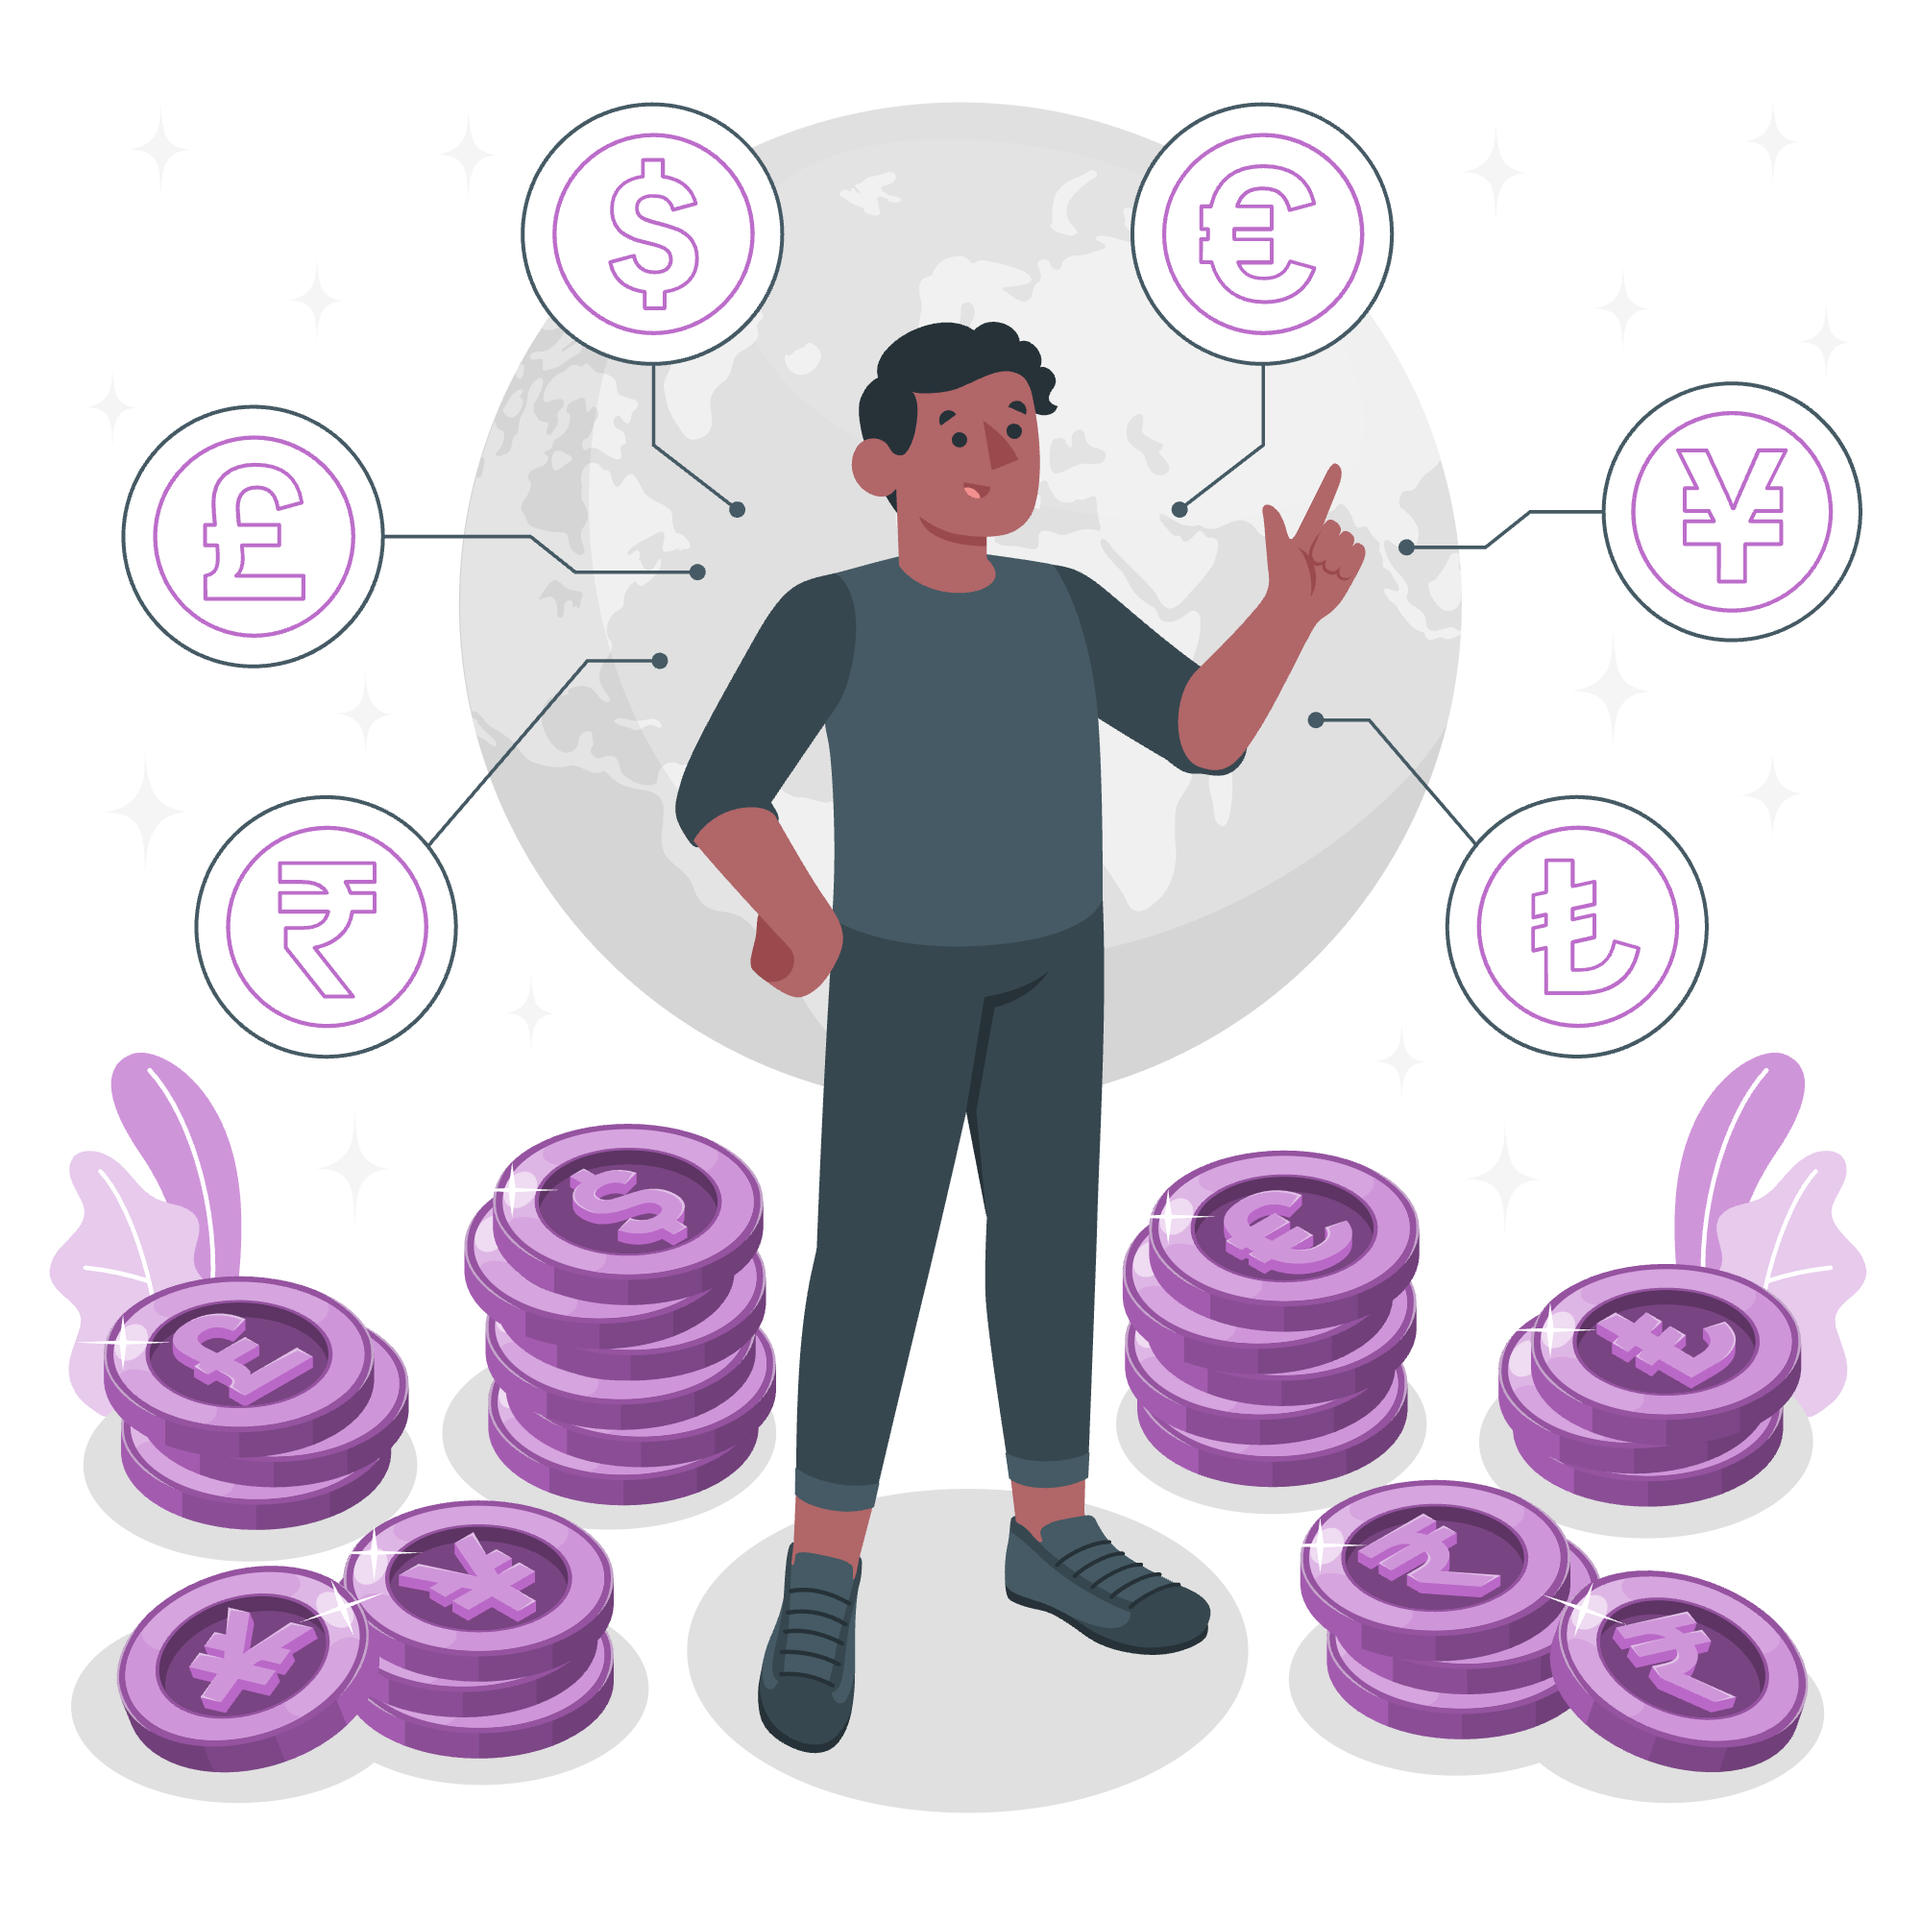
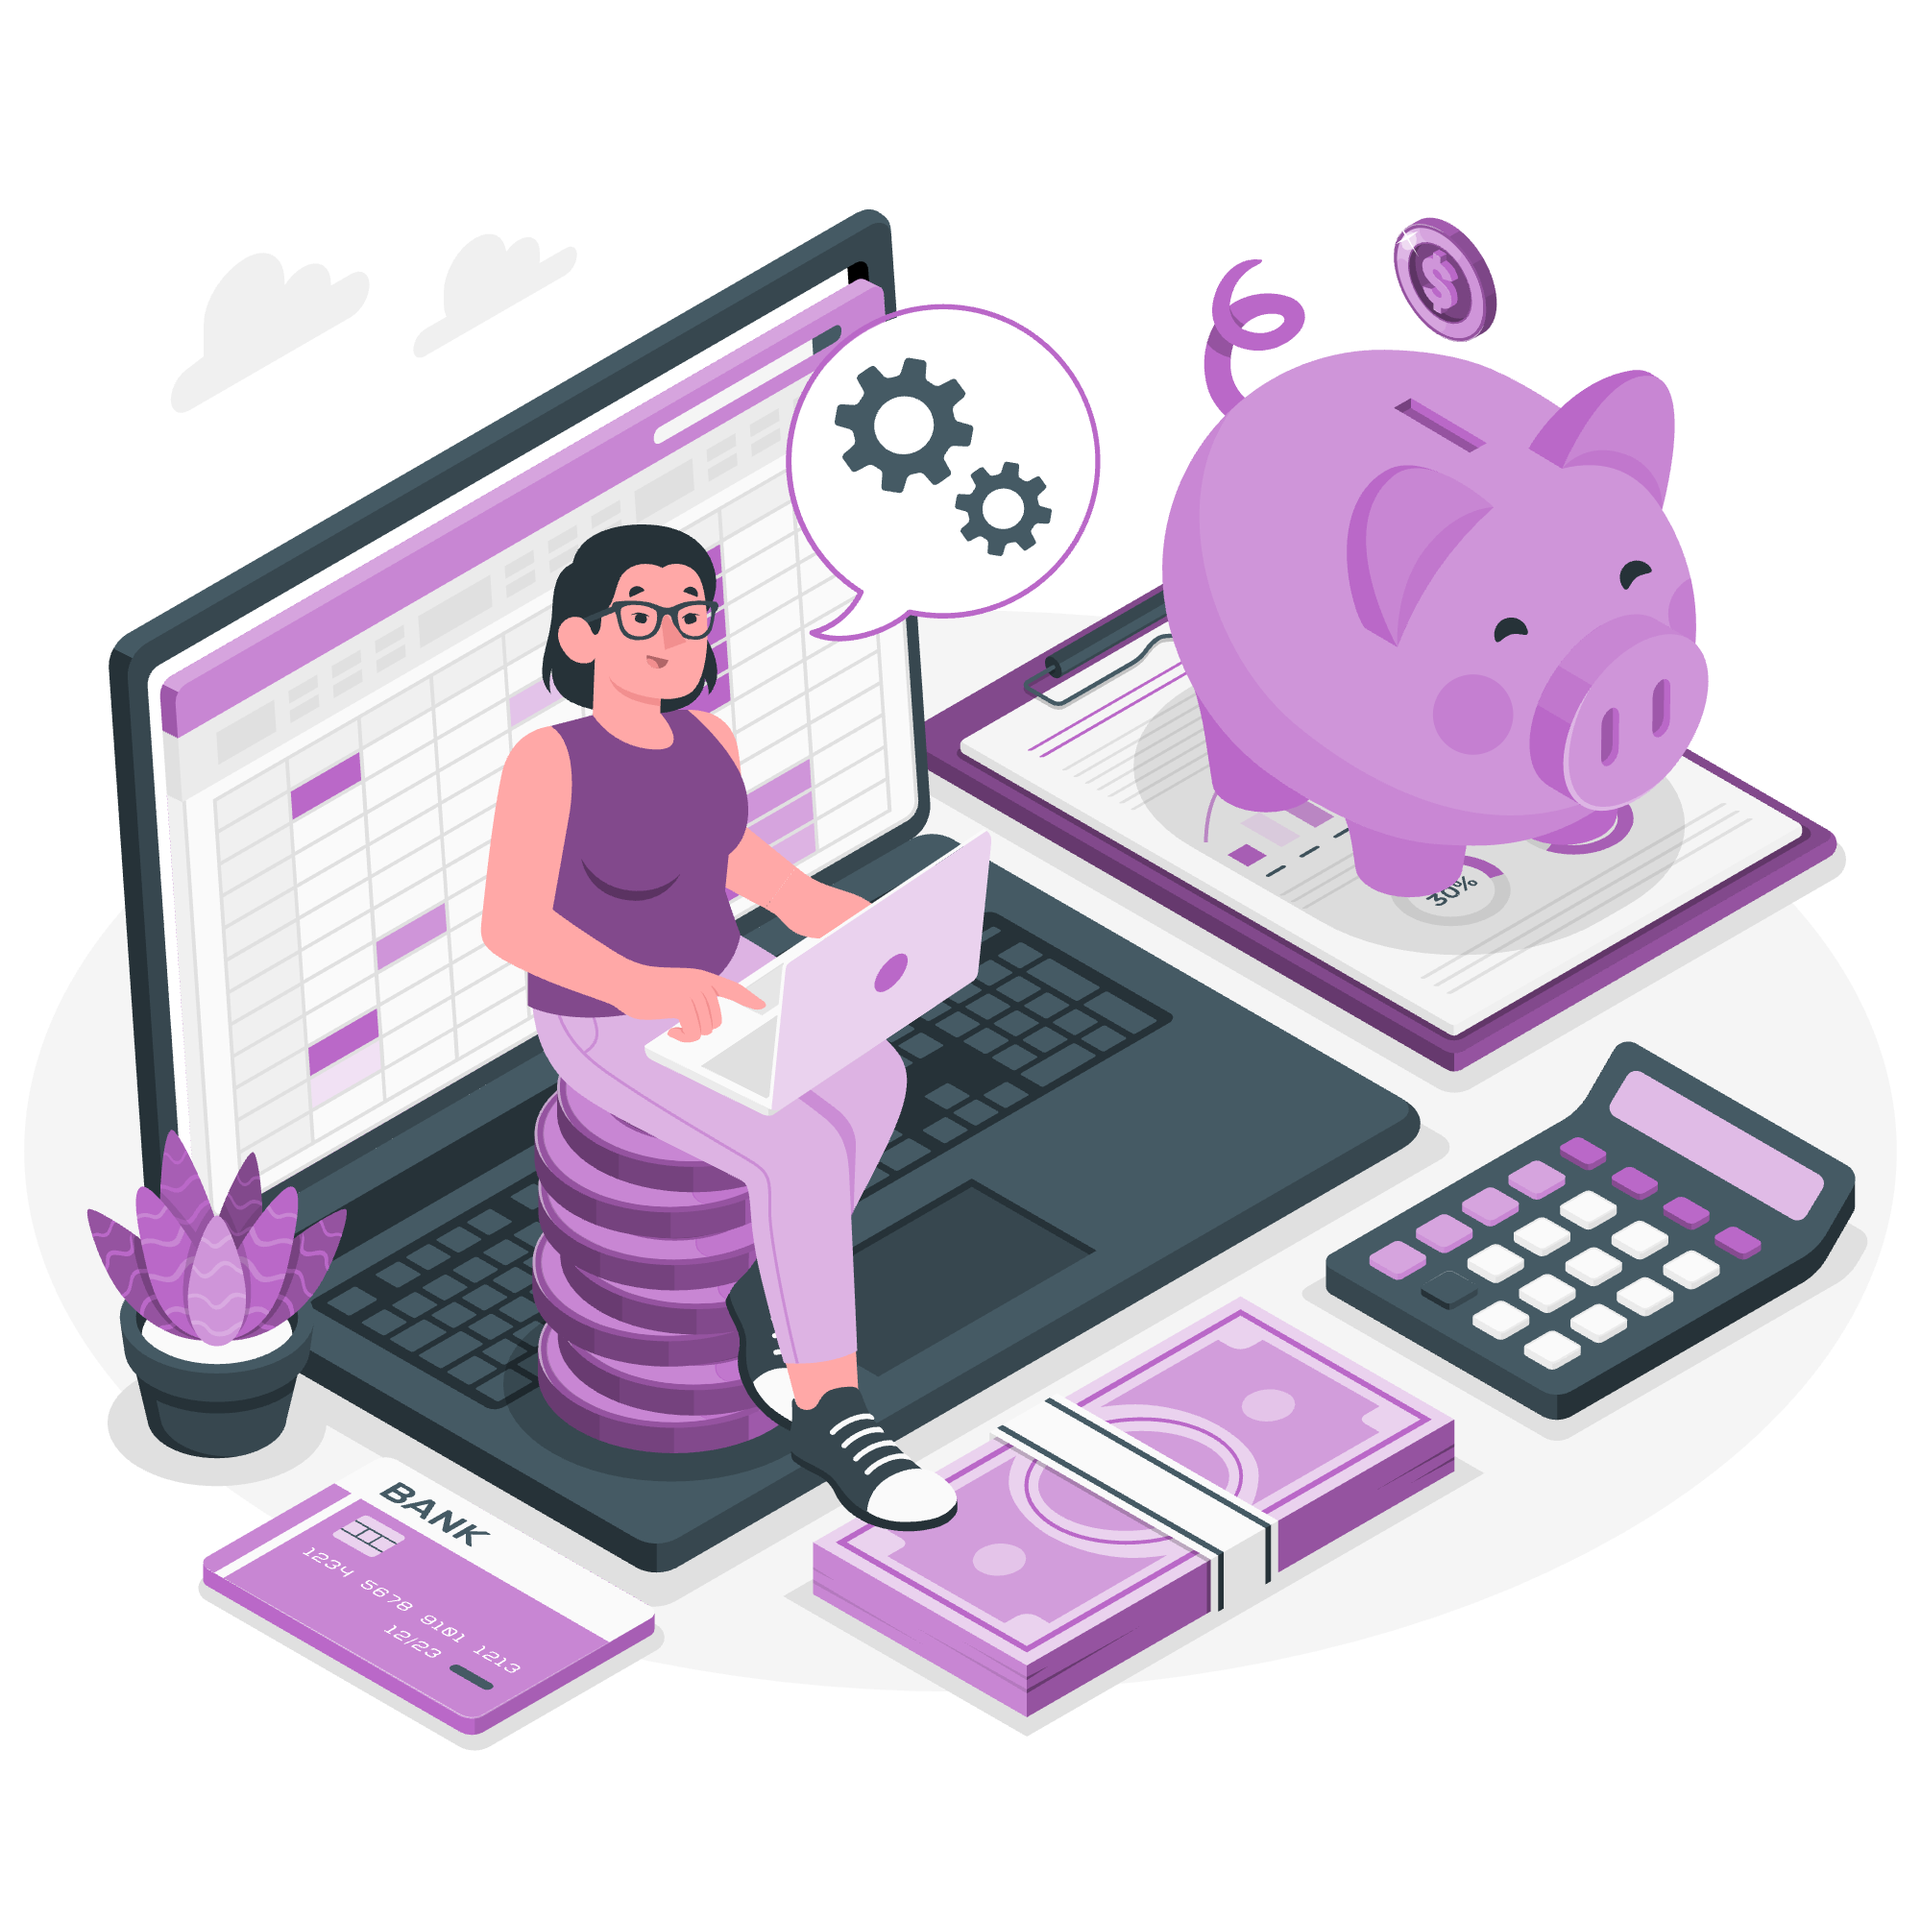
salary calculator added

diff --git a/assignments/salaryCalculator/index.html b/assignments/salaryCalculator/index.html
@@ -3,7 +3,7 @@
   <head>
     <meta charset="UTF-8" />
     <meta name="viewport" content="width=device-width, initial-scale=1.0" />
-    <title>Electricity Bill</title>
+    <title>Salary Calculator</title>
     <link
       href="https://cdn.jsdelivr.net/npm/bootstrap@5.3.8/dist/css/bootstrap.min.css"
       rel="stylesheet"
@@ -18,7 +18,7 @@
   </head>
   <body>
     <header class="w-full p-3 text-center bg-primary text-white">
-      <h1 class="fw-bolder">Electricity Bill Calculator</h1>
+      <h1 class="fw-bolder">Salary Calculator</h1>
     </header>
 
     <main>
@@ -27,16 +27,17 @@
       >
         <div class="w-50 inputContainer">
           <div class="d-flex flex-column align-items-start gap-1 w-75 mx-auto">
-            <label for="unit" class="fw-bold fs-5">Electricity units:</label>
+            <label for="input" class="fw-bold fs-5">Basic Salary:</label>
             <div class="inputDiv w-100">
               <input
                 type="number"
                 min="0"
-                id="unit"
-                name="unit"
+                id="input"
+                name="input"
                 class="form-control"
               />
             </div>
+            <span id="error" class="text-danger ms-auto float-end"></span>
           </div>
 
           <div class="d-flex justify-content-around mx-auto mt-5">
@@ -65,7 +66,7 @@
         </div>
 
         <div
-          class="bg-white rounded-3 p-2 text-black shadow w-25 mx-auto my-5 p-4 res resDiv"
+          class="bg-white rounded-3 p-2 text-black shadow w-25 justify-content-center align-items-center mx-auto my-5 p-4 resDiv"
         >
           <div
             class="d-flex justify-content-center align-items-center d-none"
@@ -73,47 +74,29 @@
           >
             <i class="bi bi-arrow-clockwise fs-1 animate-rotate"></i>
           </div>
-          <div class="d-block" id="result">
+          <div class="d-block h-100 d-flex flex-column justify-content-center" id="result">
             <h3 class="text-center">Total</h3>
             <div class="d-flex justify-content-between">
-              <p>First 50 unit:</p>
+              <p>Basic Salary:</p>
               <p>
                 <i class="bi bi-currency-rupee"></i><span id="first">0</span>
               </p>
             </div>
             <div class="d-flex justify-content-between">
-              <p>51-200 unit:</p>
+              <p>HRA:</p>
               <p>
                 <i class="bi bi-currency-rupee"></i><span id="second">0</span>
               </p>
             </div>
             <div class="d-flex justify-content-between">
-              <p>201-450 unit:</p>
+              <p>DA:</p>
               <p>
                 <i class="bi bi-currency-rupee"></i><span id="third">0</span>
               </p>
             </div>
-            <div class="d-flex justify-content-between">
-              <p>Above 450 unit:</p>
-              <p>
-                <i class="bi bi-currency-rupee"></i><span id="fourth">0</span>
-              </p>
-            </div>
-            <div class="d-flex justify-content-between">
-              <p><strong>Subtotal:</strong></p>
-              <p>
-                <i class="bi bi-currency-rupee"></i><span id="subtotal">0</span>
-              </p>
-            </div>
-            <div class="d-flex justify-content-between">
-              <p><strong>Surcharge:</strong></p>
-              <p>
-                <i class="bi bi-currency-rupee"></i
-                ><span id="surcharge">0</span>
-              </p>
-            </div>
+
             <div class="d-flex justify-content-between border-top py-3 mt-2">
-              <p><strong>Grand total:</strong></p>
+              <p><strong>Gross Salary:</strong></p>
               <p>
                 <i class="bi bi-currency-rupee"
                   ><span id="grandtotal">0</span></i

diff --git a/assignments/salaryCalculator/script.js b/assignments/salaryCalculator/script.js
@@ -1,79 +1,41 @@
 function calculate() {
-  let unit = document.getElementById("unit").value;
+  let input = document.getElementById("input").value;
   reset();
-  document.getElementById("unit").value = unit;
+  document.getElementById("input").value = input;
   const first = document.getElementById("first");
   const second = document.getElementById("second");
   const third = document.getElementById("third");
-  const fourth = document.getElementById("fourth");
-  const subtotal = document.getElementById("subtotal");
-  const surcharge = document.getElementById("surcharge");
   const grandtotal = document.getElementById("grandtotal");
-
-  if (!unit) {
-    alert("Enter the Data");
+  const err = document.getElementById("error");
+  err.innerText = "";
+  if (!input) {
+    err.innerText = "Enter the Data";
     return;
   }
 
   const charge = [];
 
-  if (unit < 0) {
-    alert("Enter positive value only");
+  if (input < 0) {
+    err.innerText = "Enter positive value only";
     return;
   }
-  let bill = 0;
-  if (unit > 450) {
-    bill = 50 * 0.5;
-    charge.push(bill);
-    unit = unit - 50;
-    bill += 150 * 0.75;
-    charge.push(bill);
-    unit = unit - 150;
-    bill += unit * 1.2;
-    charge.push(bill);
-    unit = unit - 250;
-    bill += unit * 1.5;
-    charge.push(bill);
-  } else if (unit > 200) {
-    bill = 50 * 0.5;
-    charge.push(bill);
-    unit = unit - 50;
-    bill += 150 * 0.75;
-    charge.push(bill);
-    unit = unit - 150;
-    bill += unit * 1.2;
-    charge.push(bill);
-  } else if (unit > 50) {
-    bill = 50 * 0.5;
-    charge.push(bill);
-    unit = unit - 50;
-    bill += unit * 0.75;
-    charge.push(bill);
-  } else {
-    bill = unit * 0.5;
-    charge.push(bill);
-  }
+  const basic = Number(input);
 
-  const chargeVal = bill * 0.2;
-  const tempTotal = bill;
-  bill = bill + bill * 0.2;
+  const hra = basic * 0.2;
+  const da = basic * 0.1;
+  const gross = basic + hra + da;
 
-  first.innerText = charge.at(0)?.toFixed(2) || 0;
-  second.innerText = charge.at(1)?.toFixed(2) || 0;
-  third.innerText = charge.at(2)?.toFixed(2) || 0;
-  fourth.innerText = charge.at(3)?.toFixed(2) || 0;
-  surcharge.innerText = chargeVal?.toFixed(2) || 0;
-  subtotal.innerText = tempTotal?.toFixed(2) || 0;
-  grandtotal.innerText = bill?.toFixed(2) || 0;
+  first.innerText = basic.toFixed(2) || 0;
+  second.innerText = hra.toFixed(2) || 0;
+  third.innerText = da.toFixed(2) || 0;
+
+  grandtotal.innerText = gross?.toFixed(2) || 0;
 }
 
 function reset() {
-  document.getElementById("unit").value = 0;
+  document.getElementById("input").value = 0;
   document.getElementById("first").innerText = 0;
   document.getElementById("second").innerText = 0;
   document.getElementById("third").innerText = 0;
-  document.getElementById("fourth").innerText = 0;
-  document.getElementById("subtotal").innerText = 0;
-  document.getElementById("surcharge").innerText = 0;
   document.getElementById("grandtotal").innerText = 0;
 }

diff --git a/assignments/salaryCalculator/style.css b/assignments/salaryCalculator/style.css
@@ -19,7 +19,7 @@ main {
   align-items: center;
 }
 .animate-rotate {
-  animation: rotate 0.5s infinite;
+  animation: rotate 20s linear infinite;
 }
 @keyframes rotate {
   0% {
